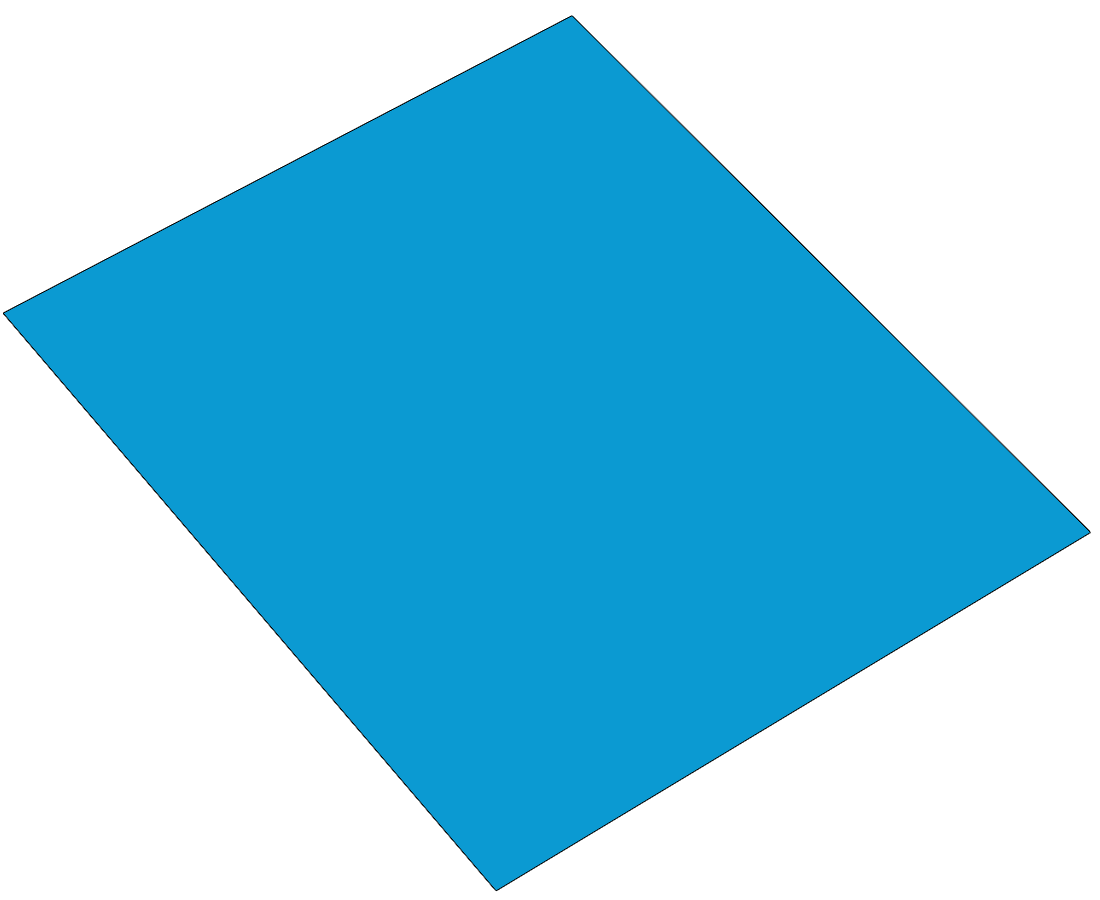
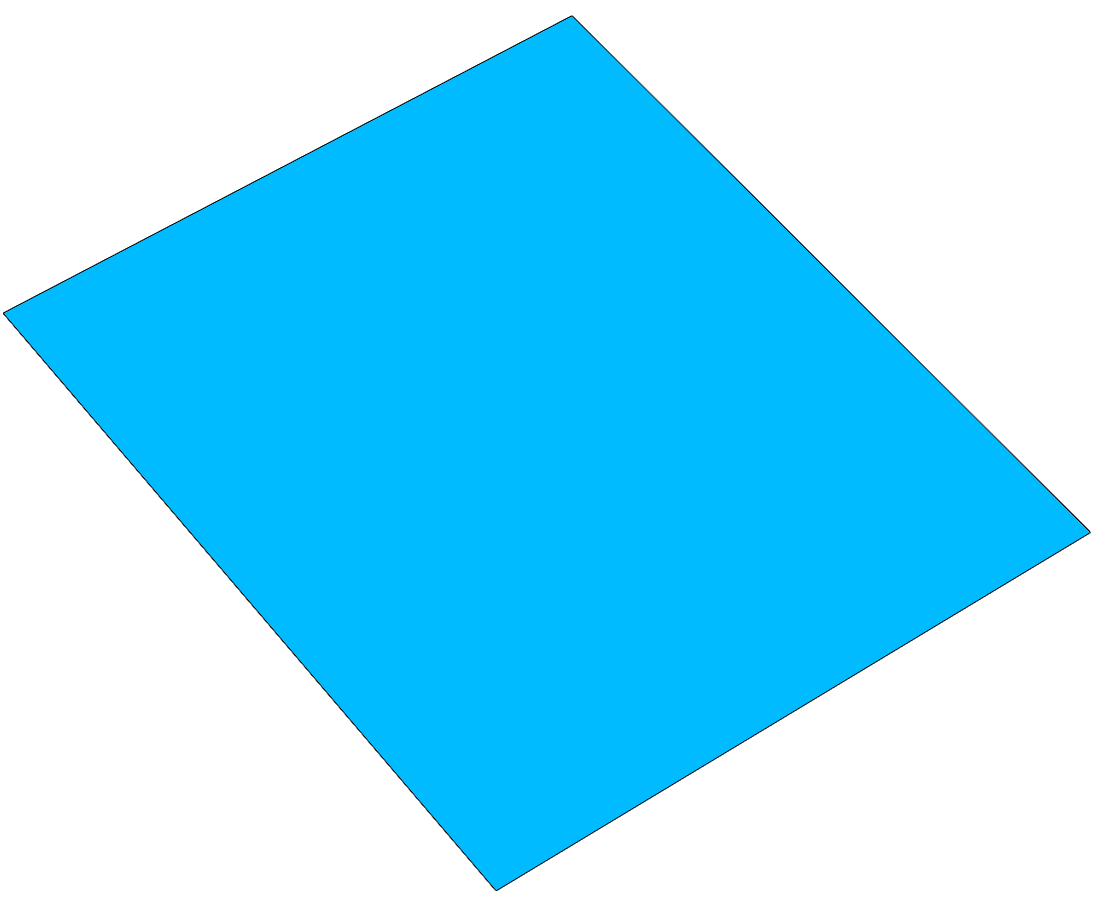
brighter cover

diff --git a/index2.html b/index2.html
@@ -85,6 +85,7 @@
         top: 120px;
         display: none;
         z-index: 1;
+        opacity: 0.5;
       }
       .blue-cover-text {
         position: absolute;
@@ -96,6 +97,7 @@
         margin-top: 30px;
         z-index: 1;
         display: none;
+        letter-spacing: 20px;
       }
       
       
@@ -118,6 +120,9 @@
         text-transform: none;
         font-family: 'Meie Script', cursive;
         margin-left: 10px;
+      }
+      .text-highlight {
+        color: #00BBFF;
       }
 
       .gate-tagline {
@@ -212,7 +217,7 @@
                                 setTimeout(function() {
                                   $blueCoverText.animate({'top': '260px'});
                                   setTimeout(function() {
-                                    $blueCoverText.fadeOut(1500);
+                                    $blueCoverText.fadeOut(1000);
                                   }, 1000);
                                 }, 200);
                                 
@@ -243,7 +248,7 @@
   <body>
     <div class="overlay"></div>
     <div class="gate-header">
-      gate
+      g<span class="">a</span>te
       <div class="tagline">
         Lorem ipsum dolor sit amet, consectetur adipiscing elit.
       </div>
@@ -252,7 +257,7 @@
 <!-- ANDROID DEVICE -->
     <div class="android-container">
       <img class="device-blue-cover" src="android_blue_cover.png">
-      <div class="blue-cover-text">hello there</div>
+      <div class="blue-cover-text">hello</div>
       
       <img class="android-device" src="nexus.png">
       <img class="device-logo" src="gate_logo_device.png">
